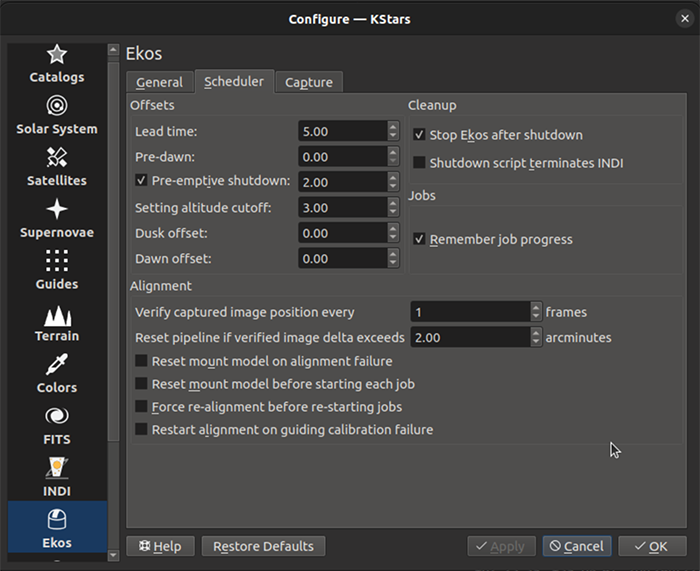
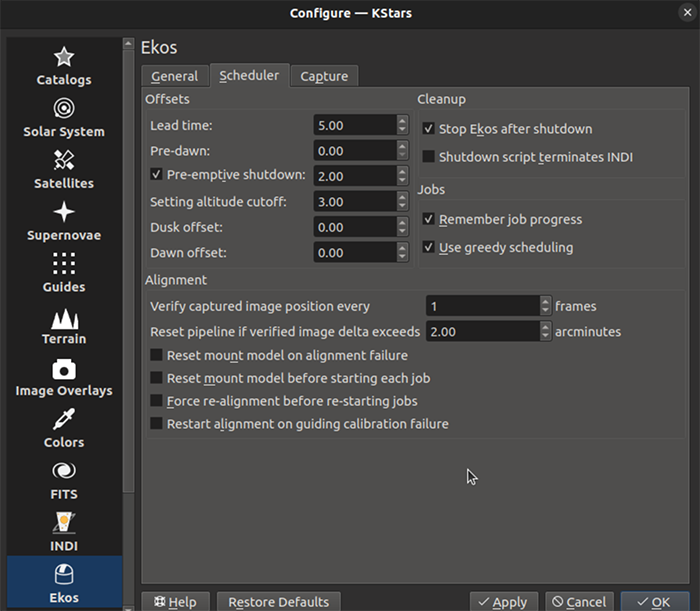
Add a new not-default scheduler option to disable greedy scheduling.

diff --git a/Tests/kstars_ui/test_ekos_scheduler_ops.cpp b/Tests/kstars_ui/test_ekos_scheduler_ops.cpp
@@ -129,6 +129,7 @@ void TestEkosSchedulerOps::init()
     Options::setDuskOffset(0);
     Options::setSettingAltitudeCutoff(0);
     Options::setSchedulerAlgorithm(Ekos::ALGORITHM_GREEDY);
+    Options::setGreedyScheduling(true);
 }
 
 void TestEkosSchedulerOps::cleanup()
@@ -1203,6 +1204,17 @@ void TestEkosSchedulerOps::testGreedy()
         {"Deneb",  "2021/06/14 22:44", "2021/06/15 03:48"}},
     scheduler->getGreedyScheduler()->getSchedule(), checkScheduleTolerance));
 
+    // Disable greedy scheduling, and Deneb should NOT run until Altair is done.
+    Options::setGreedyScheduling(false);
+    scheduler->evaluateJobs(false);
+    QVERIFY(checkSchedule(
+    {
+        {"Altair", "2021/06/13 23:34", "2021/06/14 03:00"},
+        {"Deneb",  "2021/06/14 03:01", "2021/06/14 03:53"},
+        {"Deneb",  "2021/06/14 22:44", "2021/06/15 03:52"}},
+    scheduler->getGreedyScheduler()->getSchedule(), checkScheduleTolerance));
+    Options::setGreedyScheduling(true);
+
     // As above, except Altair has completion condition repeat 2. It should run longer.
     // This makes a mess of things, as Altair can't complete during the first night, running into an artificial horizon constraint.
     // It also can't start the 2nd night as early as Deneb, so the 2nd night is Deneb, Altair (completing), Deneb, and Deneb finishes the 3rd night.
@@ -1219,6 +1231,17 @@ void TestEkosSchedulerOps::testGreedy()
         {"Deneb",  "2021/06/15 02:30", "2021/06/15 03:53"}},
     scheduler->getGreedyScheduler()->getSchedule(), checkScheduleTolerance));
 
+    // Again disable greedy scheduling, and Deneb should NOT run until Altair is done.
+    Options::setGreedyScheduling(false);
+    scheduler->evaluateJobs(false);
+    QVERIFY(checkSchedule(
+    {
+        {"Altair", "2021/06/13 23:34", "2021/06/14 03:18"},
+        {"Altair", "2021/06/14 23:30", "2021/06/15 02:32"},
+        {"Deneb",  "2021/06/15 02:33", "2021/06/15 03:53"}},
+    scheduler->getGreedyScheduler()->getSchedule(), checkScheduleTolerance));
+    Options::setGreedyScheduling(true);
+
     // Now we're using START_AT 6/14 1am for Altair (but not repeating twice).
     // Deneb will run until then (1am) the 1st night. Altair will run until it hits the horizon constraint.
     // Deneb runs through the end of the night, and again the next night until it completes.
@@ -1233,6 +1256,17 @@ void TestEkosSchedulerOps::testGreedy()
         {"Deneb",  "2021/06/14 22:44", "2021/06/15 02:44"}},
     scheduler->getGreedyScheduler()->getSchedule(), checkScheduleTolerance));
 
+    // Again disable greedy scheduling, and Deneb should NOT run until Altair is done.
+    Options::setGreedyScheduling(false);
+    scheduler->evaluateJobs(false);
+    QVERIFY(checkSchedule(
+    {
+        {"Altair", "2021/06/14 01:00", "2021/06/14 03:21"},
+        {"Deneb",  "2021/06/14 03:22", "2021/06/14 03:53"},
+        {"Deneb",  "2021/06/14 22:44", "2021/06/15 03:53"}},
+    scheduler->getGreedyScheduler()->getSchedule(), checkScheduleTolerance));
+    Options::setGreedyScheduling(true);
+
     // We again use START_AT 6/14 1am for Altair, but force Deneb to complete by 3:30am on 6/14.
     // So we get the same first two lines as above, but now Deneb stops on the 3rd line at 3:30.
     loadGreedySchedule(true, "Altair", atStartupCondition, finishCompletionCondition, dir, schedJob200x60, 30);
@@ -1245,7 +1279,17 @@ void TestEkosSchedulerOps::testGreedy()
         {"Deneb",  "2021/06/14 03:22", "2021/06/14 03:30"}},
     scheduler->getGreedyScheduler()->getSchedule(), checkScheduleTolerance));
 
-    // Finally, we have the same Altair constraints, but this time allow Deneb to run forever.
+    // Again disable greedy scheduling, and Deneb should NOT run until Altair is done.
+    Options::setGreedyScheduling(false);
+    scheduler->evaluateJobs(false);
+    QVERIFY(checkSchedule(
+    {
+        {"Altair", "2021/06/14 01:00", "2021/06/14 03:21"},
+        {"Deneb",  "2021/06/14 03:22", "2021/06/14 03:30"}},
+    scheduler->getGreedyScheduler()->getSchedule(), checkScheduleTolerance));
+    Options::setGreedyScheduling(true);
+
+    // We have the same Altair constraints, but this time allow Deneb to run forever.
     // It will look like the 3rd test, except Deneb keeps running through the end of the simulated time (2 days).
     loadGreedySchedule(true, "Altair", atStartupCondition, finishCompletionCondition, dir, schedJob200x60, 30);
     loadGreedySchedule(false, "Deneb", asapStartupCondition, loopCompletionCondition, dir, schedJob400x60, 30);
@@ -1257,6 +1301,41 @@ void TestEkosSchedulerOps::testGreedy()
         {"Deneb",  "2021/06/14 03:22", "2021/06/14 03:53"},
         {"Deneb",  "2021/06/14 22:44", "2021/06/15 03:52"}},
     scheduler->getGreedyScheduler()->getSchedule(), checkScheduleTolerance));
+
+    // Again disable greedy scheduling, and Deneb should NOT run until Altair is done.
+    Options::setGreedyScheduling(false);
+    scheduler->evaluateJobs(false);
+    QVERIFY(checkSchedule(
+    {
+        {"Altair", "2021/06/14 01:00", "2021/06/14 03:19"},
+        {"Deneb",  "2021/06/14 03:20", "2021/06/14 03:52"},
+        {"Deneb",  "2021/06/14 22:44", "2021/06/15 03:52"}},
+    scheduler->getGreedyScheduler()->getSchedule(), checkScheduleTolerance));
+    Options::setGreedyScheduling(true);
+
+    // Altair stars asap, Deneb has an at 1am startup and loop finish.
+    // Altair should start when it's able (about 23:35) but get interrupted by deneb which is higher priority
+    // because of its startat. Altair will start up again the next evening because Deneb's startat will have expired.
+    loadGreedySchedule(true, "Altair", asapStartupCondition, finishCompletionCondition, dir, schedJob200x60, 30);
+    loadGreedySchedule(false, "Deneb", atStartupCondition, loopCompletionCondition, dir, schedJob400x60, 30);
+    scheduler->evaluateJobs(false);
+    QVERIFY(checkSchedule(
+    {
+        {"Altair", "2021/06/13 23:34", "2021/06/14 01:00"},
+        {"Deneb",  "2021/06/14 01:00", "2021/06/14 03:52"},
+        {"Altair", "2021/06/14 23:30", "2021/06/15 01:31"}},
+    scheduler->getGreedyScheduler()->getSchedule(), checkScheduleTolerance));
+
+    // Again disable greedy scheduling. Nothing should change as no jobs were running before higher priority ones.
+    Options::setGreedyScheduling(false);
+    scheduler->evaluateJobs(false);
+    QVERIFY(checkSchedule(
+    {
+        {"Altair", "2021/06/13 23:34", "2021/06/14 01:00"},
+        {"Deneb",  "2021/06/14 01:00", "2021/06/14 03:52"},
+        {"Altair", "2021/06/14 23:30", "2021/06/15 01:31"}},
+    scheduler->getGreedyScheduler()->getSchedule(), checkScheduleTolerance));
+    Options::setGreedyScheduling(true);
 }
 
 void TestEkosSchedulerOps::testGroups()

diff --git a/kstars/ekos/scheduler/greedyscheduler.cpp b/kstars/ekos/scheduler/greedyscheduler.cpp
@@ -324,7 +324,7 @@ SchedulerJob *GreedyScheduler::selectNextJob(const QList<SchedulerJob *> &jobs, 
                 if (nextInterruption) *nextInterruption = QDateTime();
                 interruptStr = "";
             }
-            else
+            else if (Options::greedyScheduling())
             {
                 // Allow this job to be scheduled if it can run this many seconds
                 // before running into a higher priority job.
@@ -424,7 +424,7 @@ SchedulerJob *GreedyScheduler::selectNextJob(const QList<SchedulerJob *> &jobs, 
         // - the selected job is a repeating job and
         // - another group member is runnable now and
         // - that group mnember is behind the selected job's iteration.
-        if (nextJob && !nextJob->getGroup().isEmpty() && nextJob->getCompletedIterations() > 0)
+        if (nextJob && !nextJob->getGroup().isEmpty() && Options::greedyScheduling() && nextJob->getCompletedIterations() > 0)
         {
             // Iterate through the jobs list, first finding the selected job, the looking at all jobs after that.
             bool foundSelectedJob = false;
